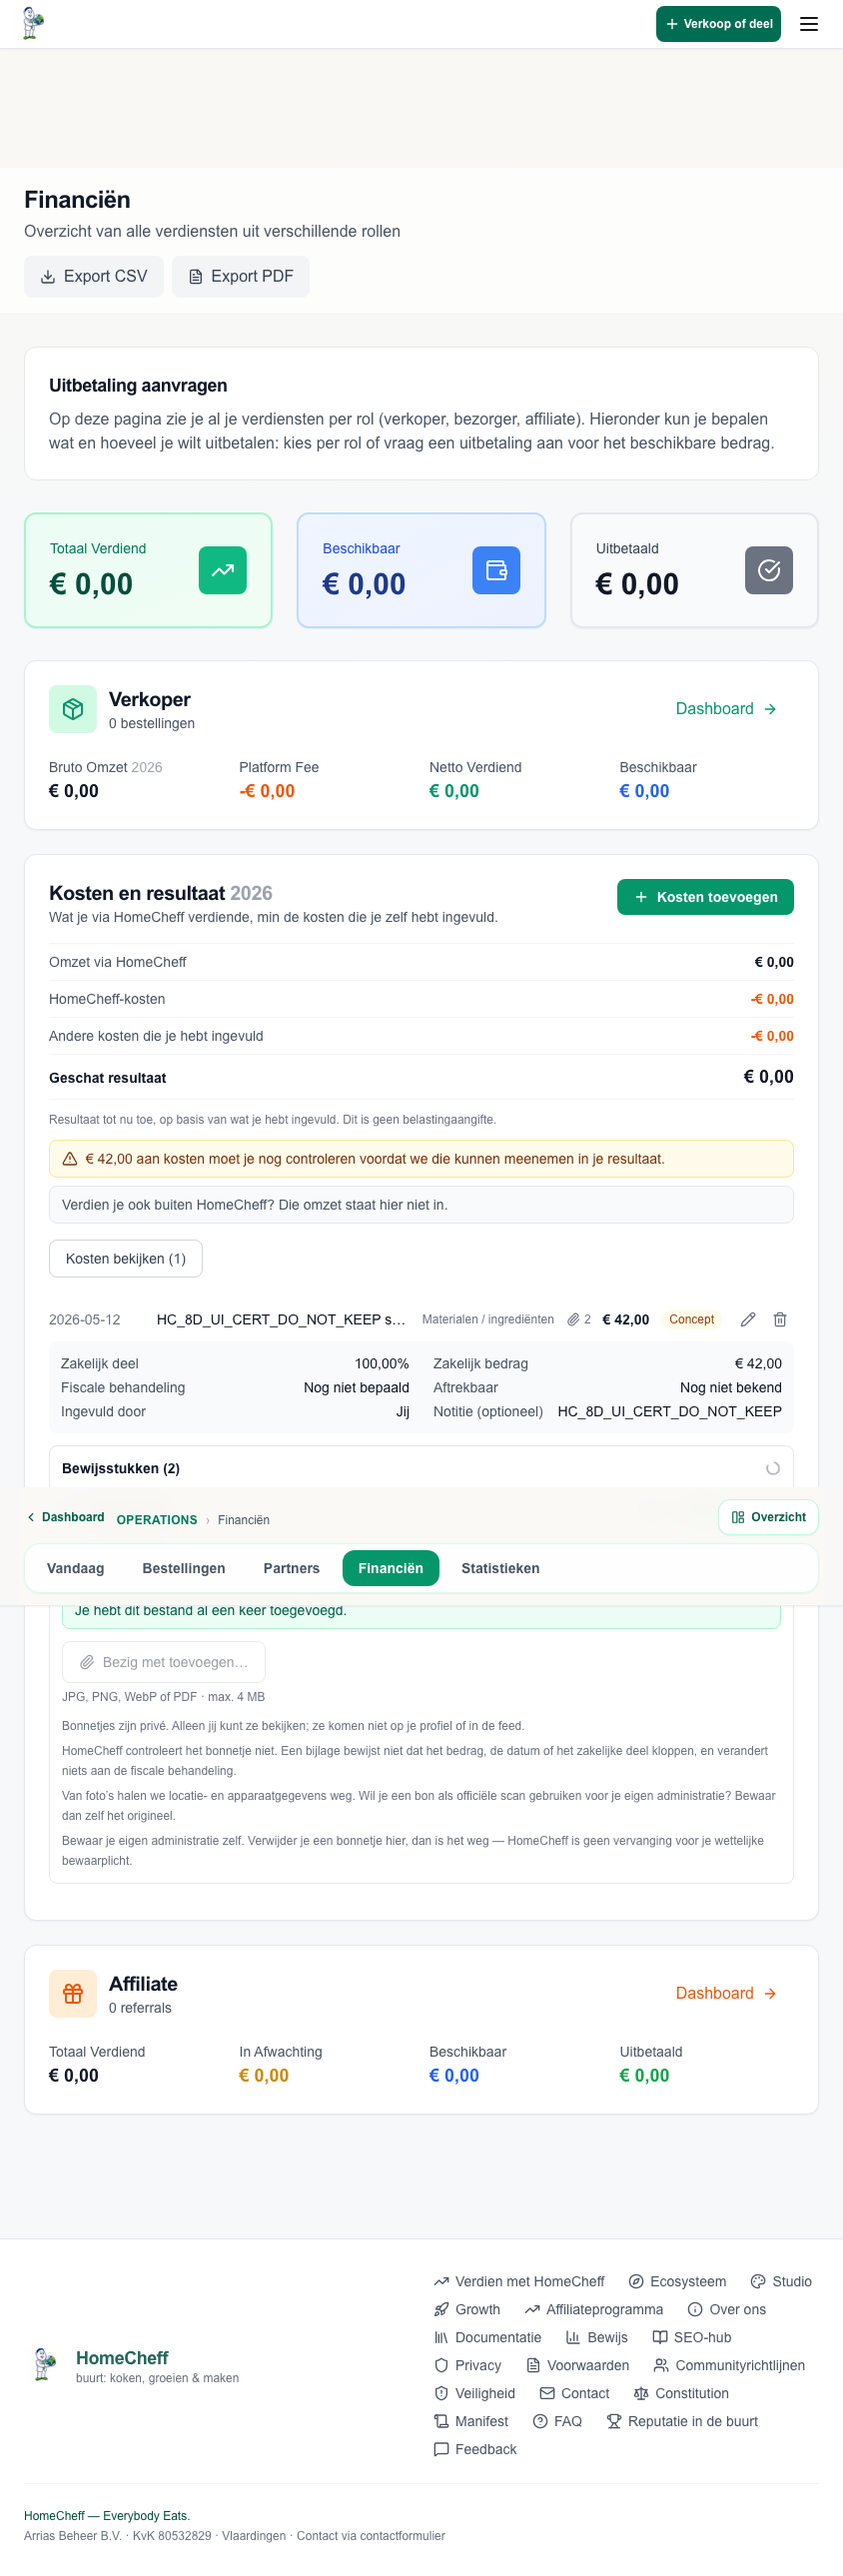
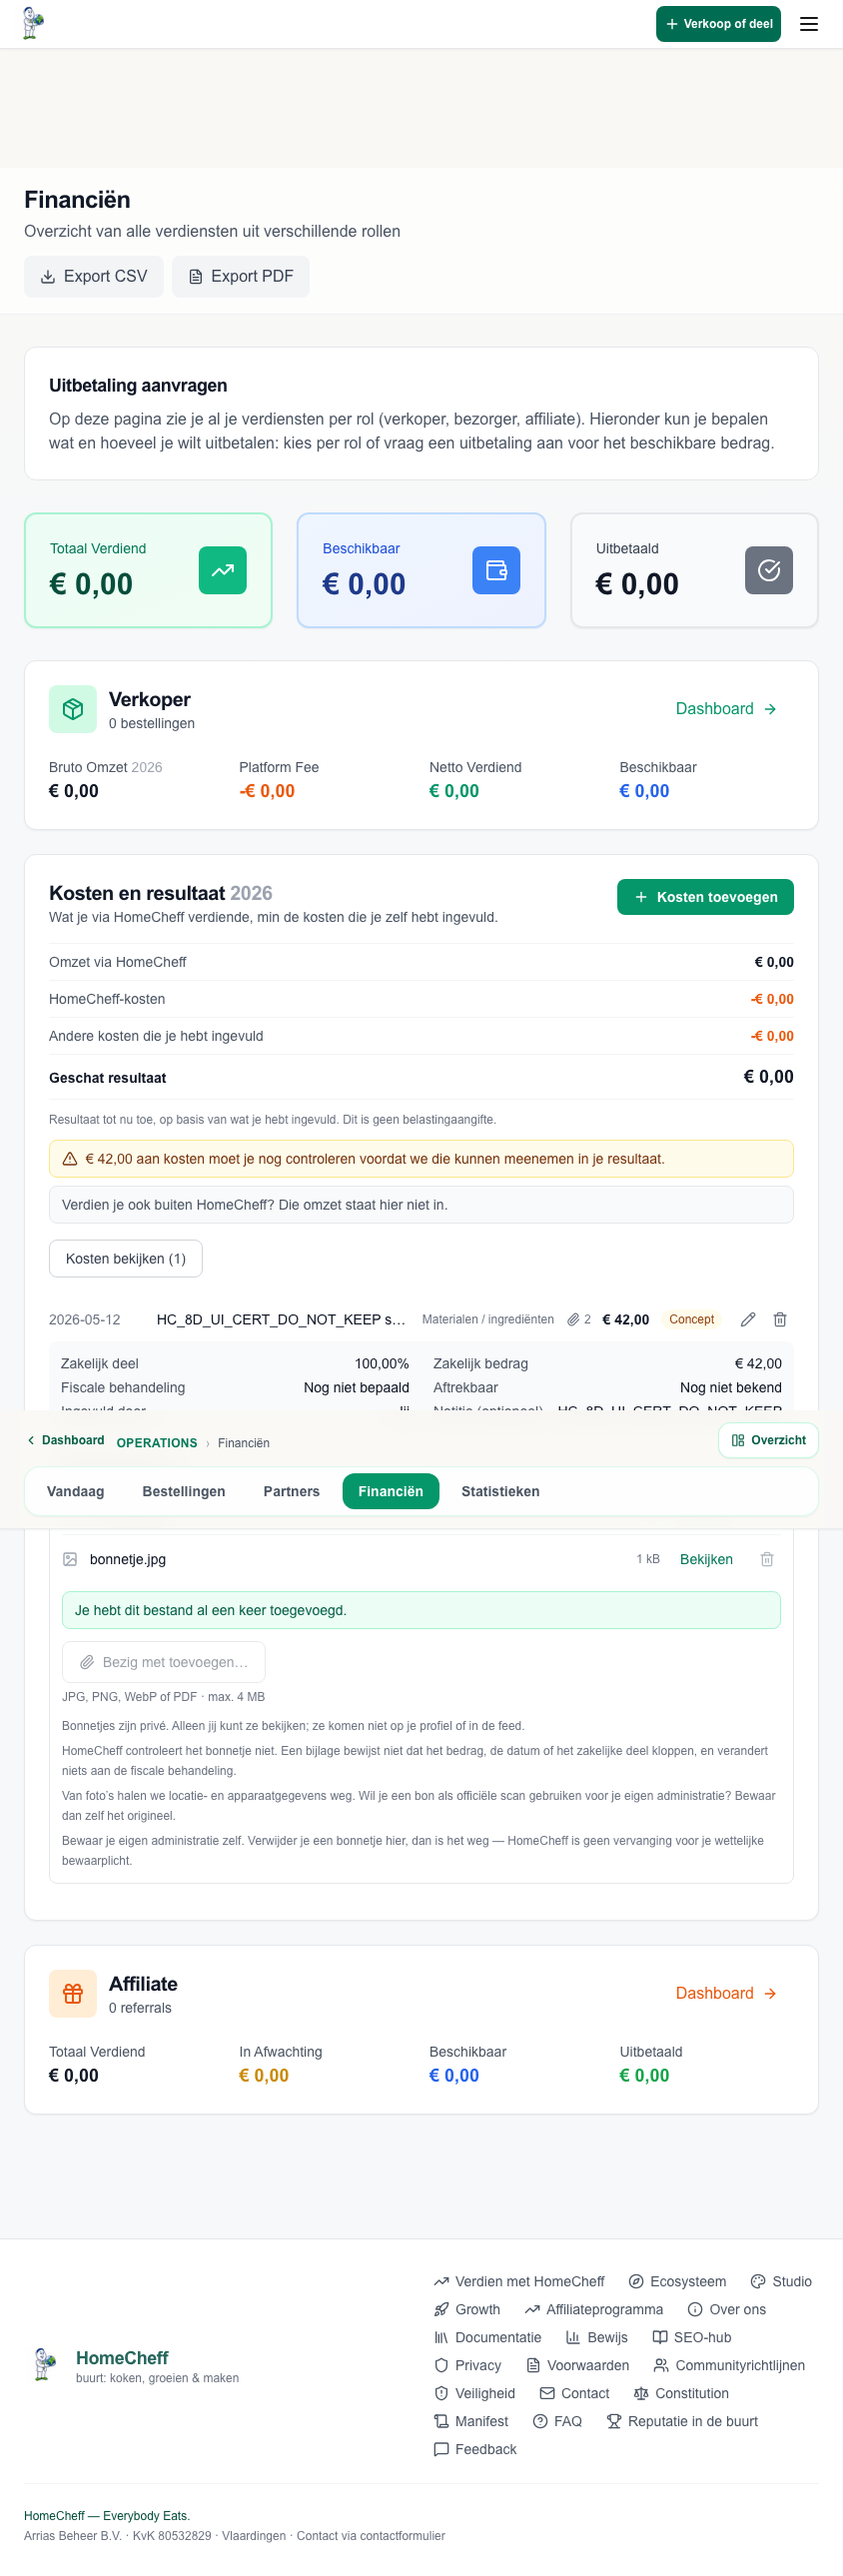
Phase 8D: serve receipt bytes without refetching the whole user
Measured on production, a single receipt view spent most of its time in
auth(): HomeCheff's session callback refetches the user and its relations
on every call, and evidenceOwnerId() then looked the same user up again.
Three database round trips before any byte moved, and a viewer issues one
request per image — reads ranged from 175ms to nearly 13 seconds.

The content route now verifies the signed session token directly and
takes the id from it. Same credential, same signature check, same
ownerUserId match on the row; it just stops paying for profile data it
never reads. Upload, list and delete still go through auth().

The viewer also shows a loading state and, if the bytes do not arrive, an
error with a download link instead of an empty grey box.

diff --git a/lib/finance/evidence/evidence-request.ts b/lib/finance/evidence/evidence-request.ts
@@ -2,8 +2,10 @@
  * PHASE 8D — shared request-side guards for the evidence endpoints.
  */
 import type { NextRequest } from 'next/server';
+import { getToken } from 'next-auth/jwt';
 import { auth } from '@/lib/auth';
 import { prisma } from '@/lib/prisma';
+import { NEXTAUTH_SESSION_COOKIE_NAME } from '@/lib/auth/session-cookie-name';
 
 /** Uploads per hour per user. Generous for real use, useless for abuse. */
 export const EVIDENCE_UPLOADS_PER_HOUR = 60;
@@ -42,6 +44,35 @@ export async function evidenceOwnerId(): Promise<string | null> {
   if (!email) return null;
   const user = await prisma.user.findUnique({ where: { email }, select: { id: true } });
   return user?.id ?? null;
+}
+
+/**
+ * The owner, for the route that streams bytes.
+ *
+ * `auth()` runs HomeCheff's session callback, which refetches the user with its
+ * relations on every call; combined with the email lookup above that is three
+ * database round trips before a single byte moves, and a receipt viewer issues
+ * one request per image. Measured against production this route spent most of
+ * its time there, occasionally over ten seconds.
+ *
+ * So this reads the signed session token directly. It is the same credential
+ * `auth()` starts from and the same one middleware trusts, verified the same
+ * way — the request simply stops paying for profile data it does not use. The
+ * id still comes from the server's own signature, never from the request body,
+ * and the evidence lookup still matches on `ownerUserId`, so the authorization
+ * boundary is unchanged.
+ *
+ * Deleted accounts need no special case here: account deletion purges their
+ * evidence, so the row lookup finds nothing and the route answers 404.
+ */
+export async function evidenceReaderId(req: NextRequest): Promise<string | null> {
+  const token = await getToken({
+    req,
+    secret: process.env.NEXTAUTH_SECRET,
+    cookieName: NEXTAUTH_SESSION_COOKIE_NAME,
+  }).catch(() => null);
+  const id = (token as { id?: string; sub?: string } | null)?.id ?? token?.sub;
+  return typeof id === 'string' && id ? id : null;
 }
 
 /**

diff --git a/components/seller/ExpenseEvidencePanel.tsx b/components/seller/ExpenseEvidencePanel.tsx
@@ -291,6 +291,7 @@ export default function ExpenseEvidencePanel({
 function EvidenceViewer({ item, onClose }: { item: Evidence; onClose: () => void }) {
   const { t } = useTranslation();
   const closeRef = useRef<HTMLButtonElement>(null);
+  const [state, setState] = useState<'loading' | 'ready' | 'error'>('loading');
 
   useEffect(() => {
     closeRef.current?.focus();
@@ -333,12 +334,28 @@ function EvidenceViewer({ item, onClose }: { item: Evidence; onClose: () => void
             <X className="h-5 w-5" aria-hidden="true" />
           </button>
         </div>
-        <div className="flex-1 overflow-auto bg-gray-50 p-3">
+        <div className="flex min-h-[8rem] flex-1 items-center justify-center overflow-auto bg-gray-50 p-3">
+          {state === 'loading' ? (
+            <p className="flex items-center gap-2 text-sm text-gray-500" role="status">
+              <Loader2 className="h-4 w-4 animate-spin" aria-hidden="true" />
+              {t('sellerExpenses.evidenceViewerLoading') || '…'}
+            </p>
+          ) : null}
+          {state === 'error' ? (
+            <p role="alert" className="text-center text-sm text-gray-700">
+              {t('sellerExpenses.evidenceViewerFailed')}{' '}
+              <a href={contentUrl(item.id)} className="font-medium text-emerald-700 underline">
+                {t('sellerExpenses.evidenceDownload')}
+              </a>
+            </p>
+          ) : null}
           {/* eslint-disable-next-line @next/next/no-img-element */}
           <img
             src={contentUrl(item.id)}
             alt={item.originalFilename || t('sellerExpenses.evidenceViewerTitle')}
-            className="mx-auto h-auto max-w-full"
+            onLoad={() => setState('ready')}
+            onError={() => setState('error')}
+            className={`mx-auto h-auto max-w-full ${state === 'ready' ? '' : 'hidden'}`}
           />
         </div>
       </div>

diff --git a/app/api/seller/evidence/[evidenceId]/content/route.ts b/app/api/seller/evidence/[evidenceId]/content/route.ts
@@ -18,7 +18,7 @@ import {
   downloadFilenameFor,
   evidenceDeliveryHeaders,
 } from '@/lib/finance/evidence/evidence-policy';
-import { evidenceOwnerId } from '@/lib/finance/evidence/evidence-request';
+import { evidenceReaderId } from '@/lib/finance/evidence/evidence-request';
 
 export const dynamic = 'force-dynamic';
 export const runtime = 'nodejs';
@@ -29,11 +29,11 @@ const NOT_FOUND_HEADERS = {
 } as const;
 
 export async function GET(
-  _req: NextRequest,
+  req: NextRequest,
   { params }: { params: Promise<{ evidenceId: string }> },
 ) {
   try {
-    const ownerUserId = await evidenceOwnerId();
+    const ownerUserId = await evidenceReaderId(req);
     if (!ownerUserId) {
       return new NextResponse('Not found', { status: 404, headers: NOT_FOUND_HEADERS });
     }
